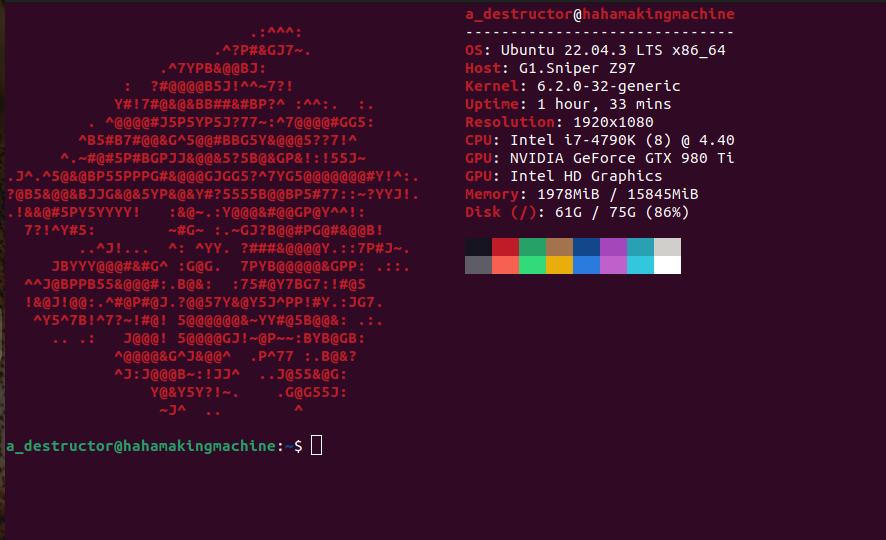
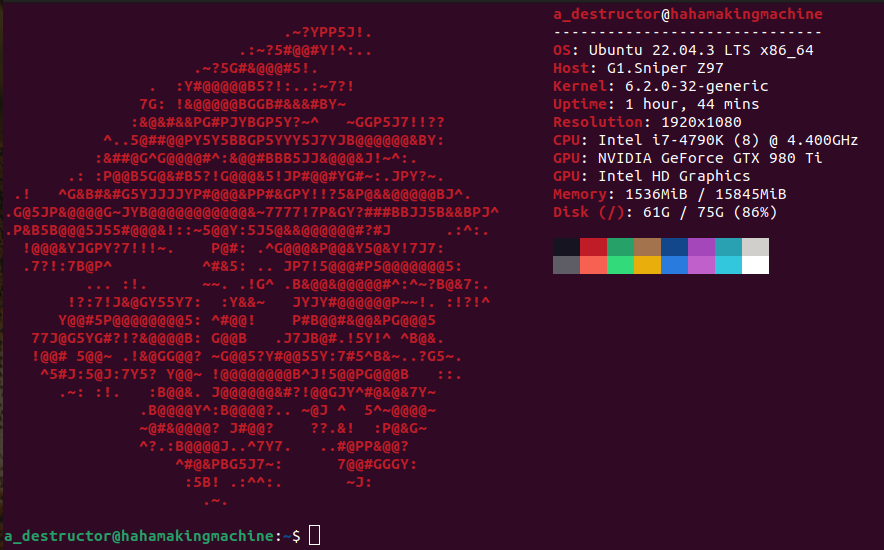
drip update

Changed region(s): [[0.0, 0.0, 0.9774, 0.8889], [0.0, 0.9481, 0.3665, 1.0]]

diff --git a/README.md b/README.md
@@ -13,7 +13,7 @@ This will be a summary of how I made the drippiest drip for my terminal.
    sudo gedit /usr/bin/neofetch
    ``
    
-3. Remove any of the existing OS's logos and put L-Drago SIZE=50 in its place. I removed Red Star just because it fits L-Drago's aesthetics. Do not forget to save before exiting.
+3. Remove any of the existing OS's logos and put L-Drago SIZE=60 in its place. I removed Red Star just because it fits L-Drago's aesthetics. Do not forget to save before exiting.
 
 4. Open neofetch's config file
    
